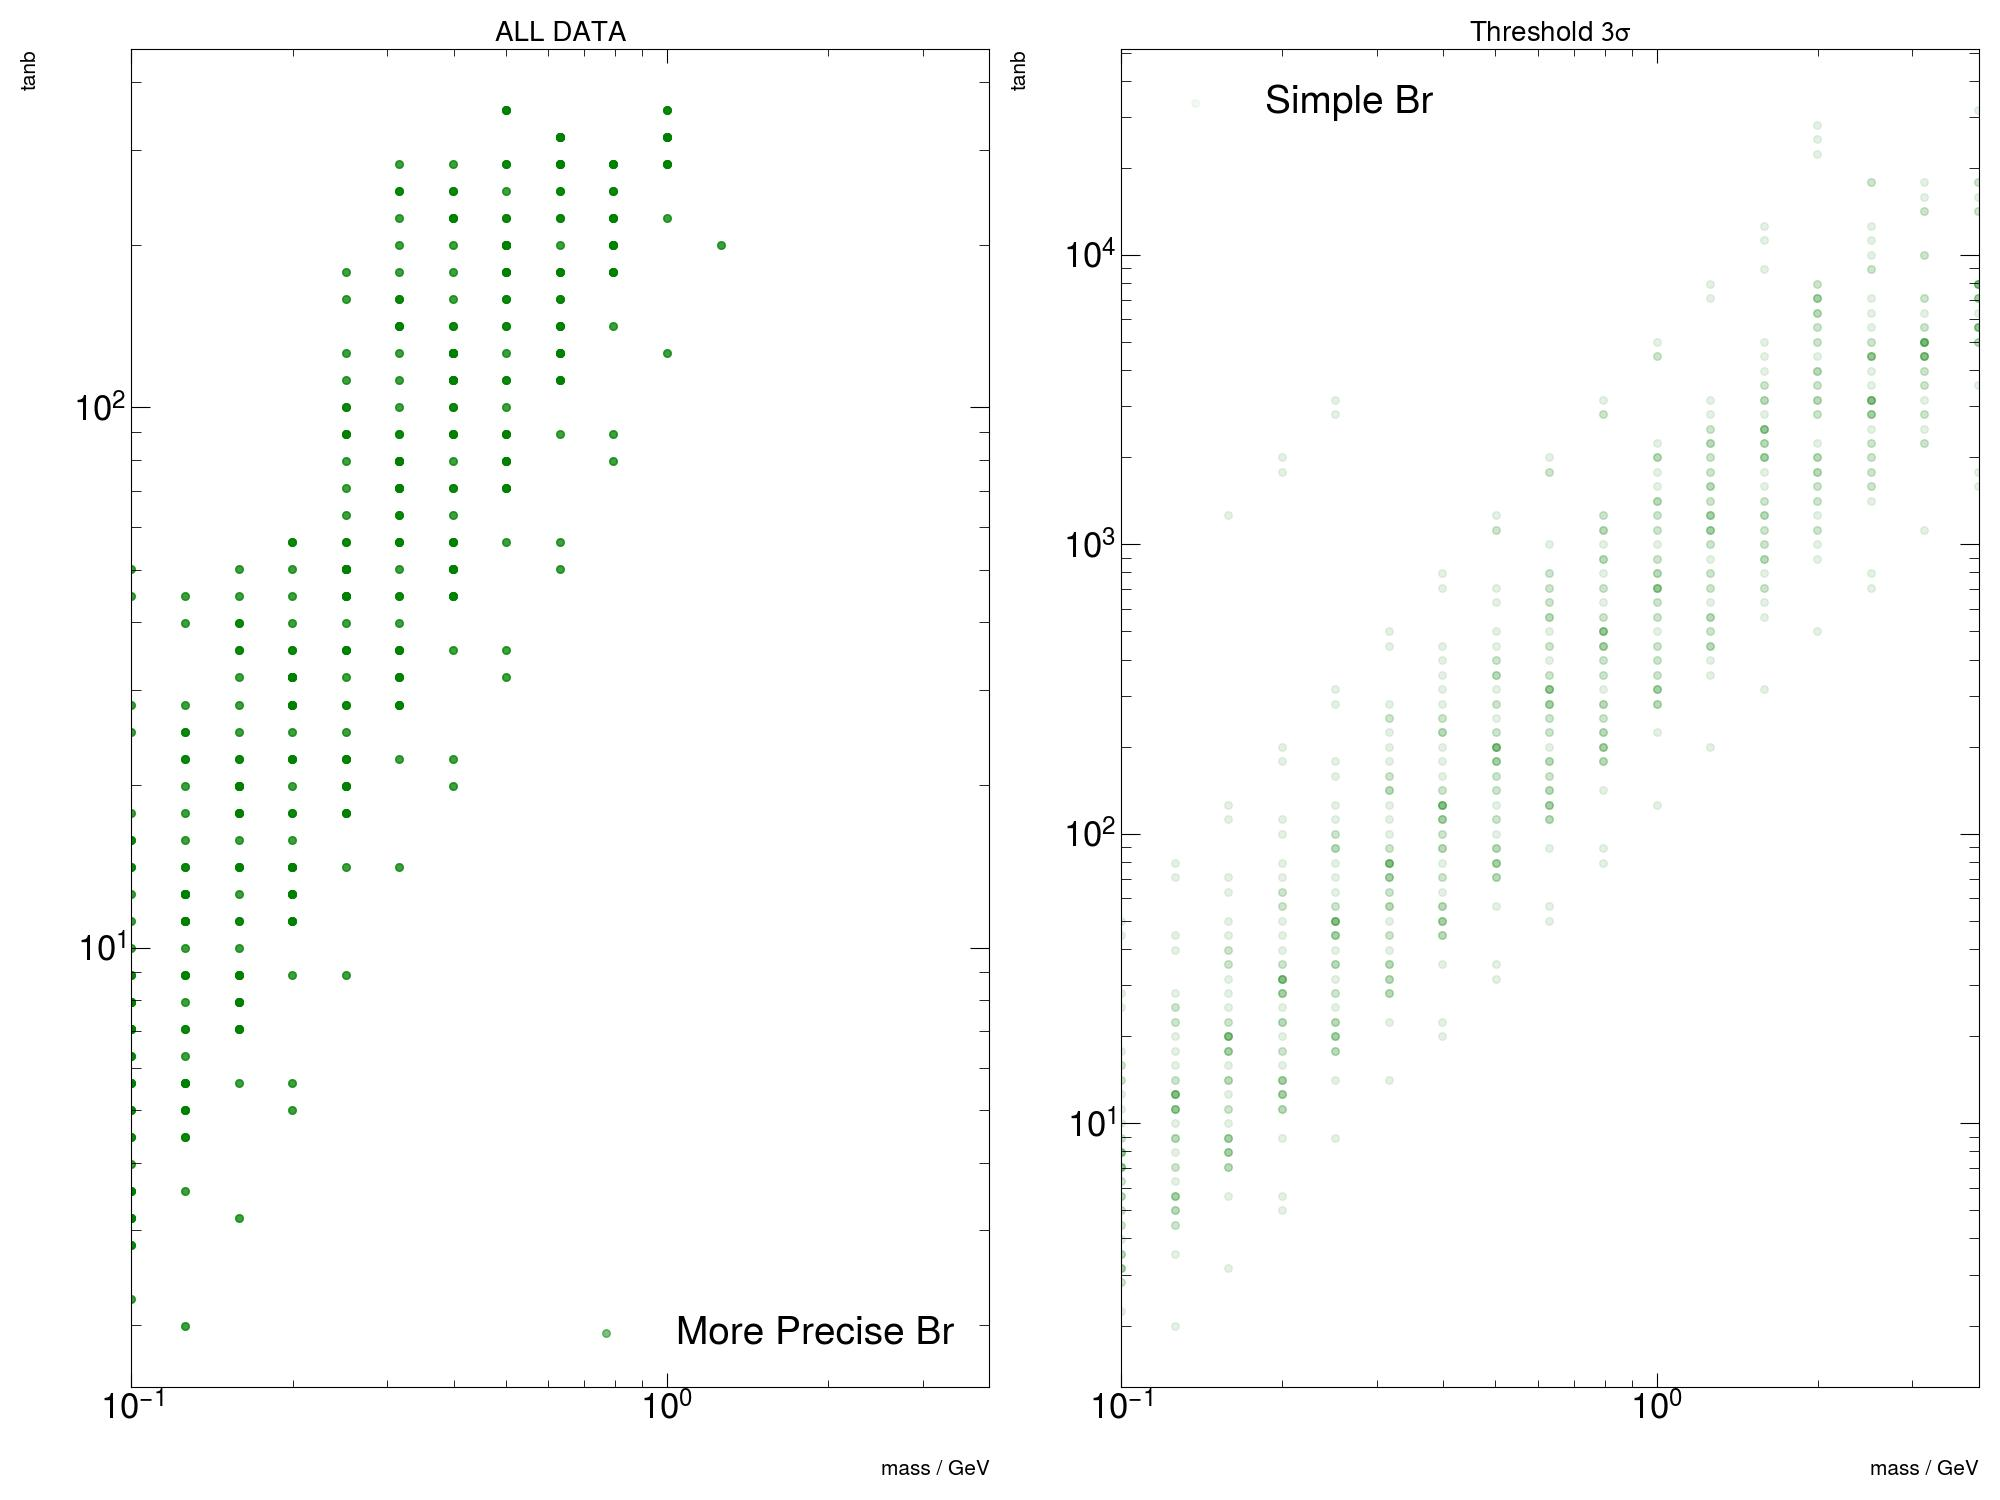
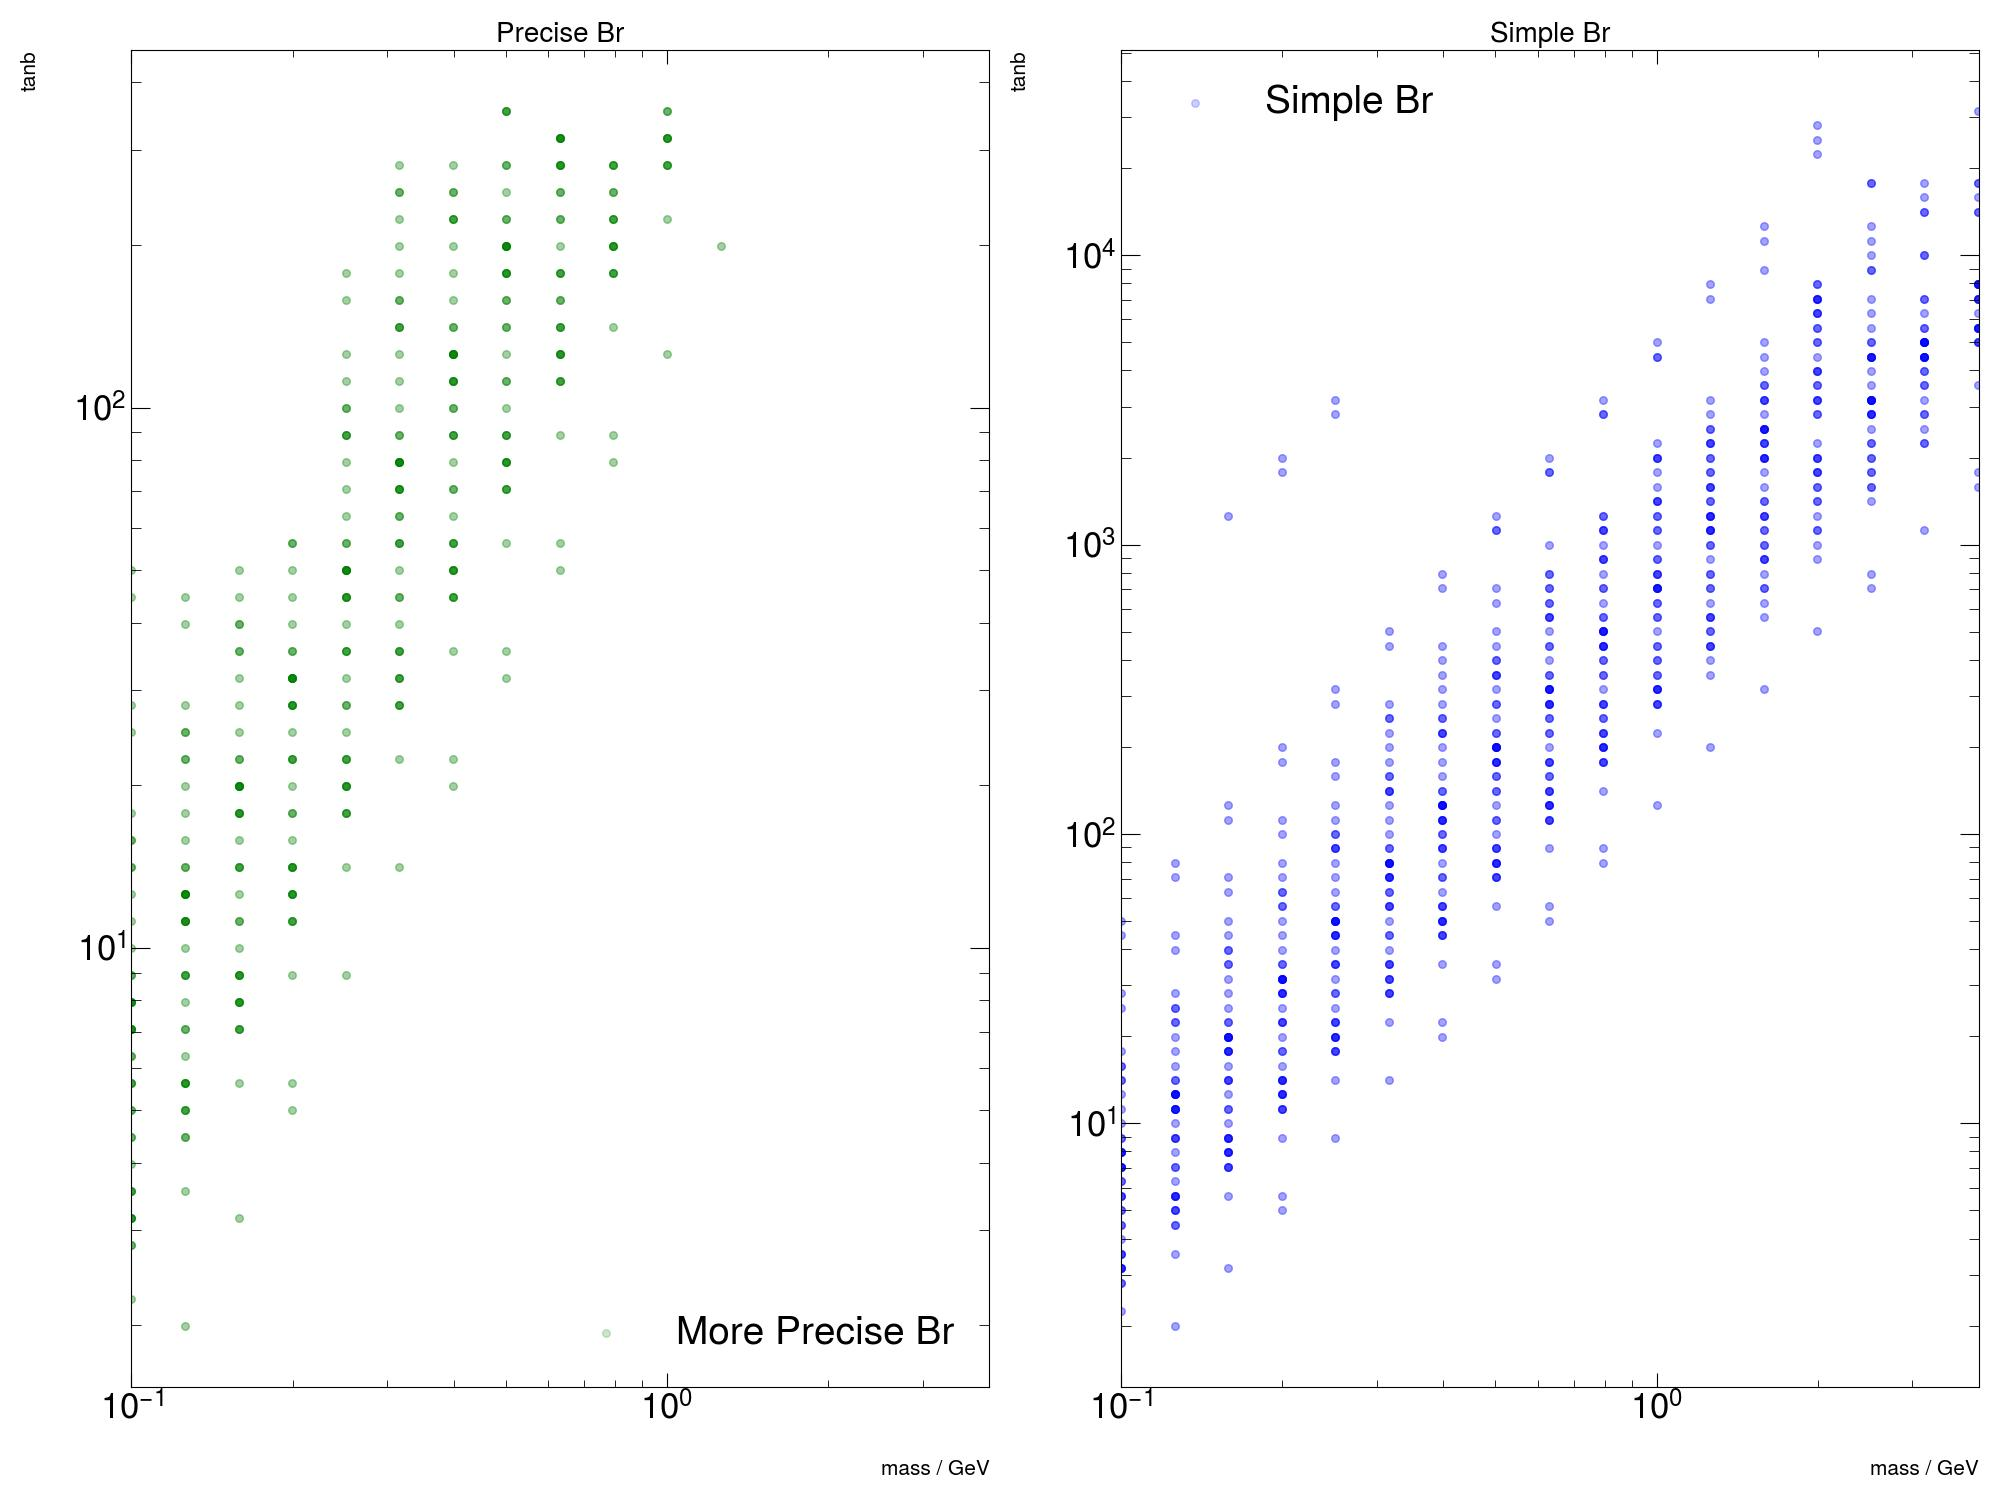
Changes to be committed: 	new file:   Br_B_to_H_vs_mH.png 	modified:   HDM1_Test_log_2Br.jpg 	modified:   plot.ipynb

diff --git a/ALL_IN_ONE/Pythia8/functions_for_calculation.py b/ALL_IN_ONE/Pythia8/functions_for_calculation.py
@@ -127,7 +127,7 @@ def g1(xk, xHpm, tanb):
 def X1(xk, xHpm):
     t1 = (xHpm/(xHpm - xk)) - (6/(xk-1)**2) + 3
     t2 = -1 * xHpm * ((3 * xHpm - 2 * xk)/((xHpm - xk)**2)) * np.log(xHpm)
-    t3 = ((xHpm* (3* xHpm - 2* xk)/(xHpm - xk)**2) + (3*(xk + 1)/(xk -1)**3)) * np.log(xk)
+    t3 = ((xHpm* (3* xHpm - 2* xk)/((xHpm - xk)**2)) + (3*(xk + 1)/((xk -1)**3))) * np.log(xk)
     return (-1/4) * (t1 + t2 + t3)  
 
 def X2(xk, xHpm):
@@ -151,7 +151,7 @@ def f(x):
 
 
 def calcu_lambda_HHpHm(m_H, m_HC, tanb, cosba):
-    lambda_HHpHm = -1 / v * (2 * m_HC**2 - m_H**2) * cosba
+    lambda_HHpHm = (-1 / v) * (2 * m_HC**2 - m_H**2) * cosba
     return lambda_HHpHm
 
 def calcu_lambda_hHpHm(m_H, m_HC, tanb, cosba):
@@ -161,6 +161,7 @@ def calcu_lambda_hHpHm(m_H, m_HC, tanb, cosba):
 
 # 分支比计算
 def calcu_Br_B_to_H(m_phi, tanb, cosba, m_HC = 600.0):
+    # take m_Hpm = 600 GeV
 
     # take m_b = 4.18 GeV 
     m_b = 4.18
@@ -170,7 +171,6 @@ def calcu_Br_B_to_H(m_phi, tanb, cosba, m_HC = 600.0):
     # upper quarks are: k = u, c, t
     quarks = ['u', 'c', 't']
     masses = {'u': m_u, 'c': m_c, 't': m_t}
-    # take m_Hpm = 600 GeV
     m_Hpm = m_HC
     x_Hpm = (m_Hpm**2) / (m_W**2)
     
